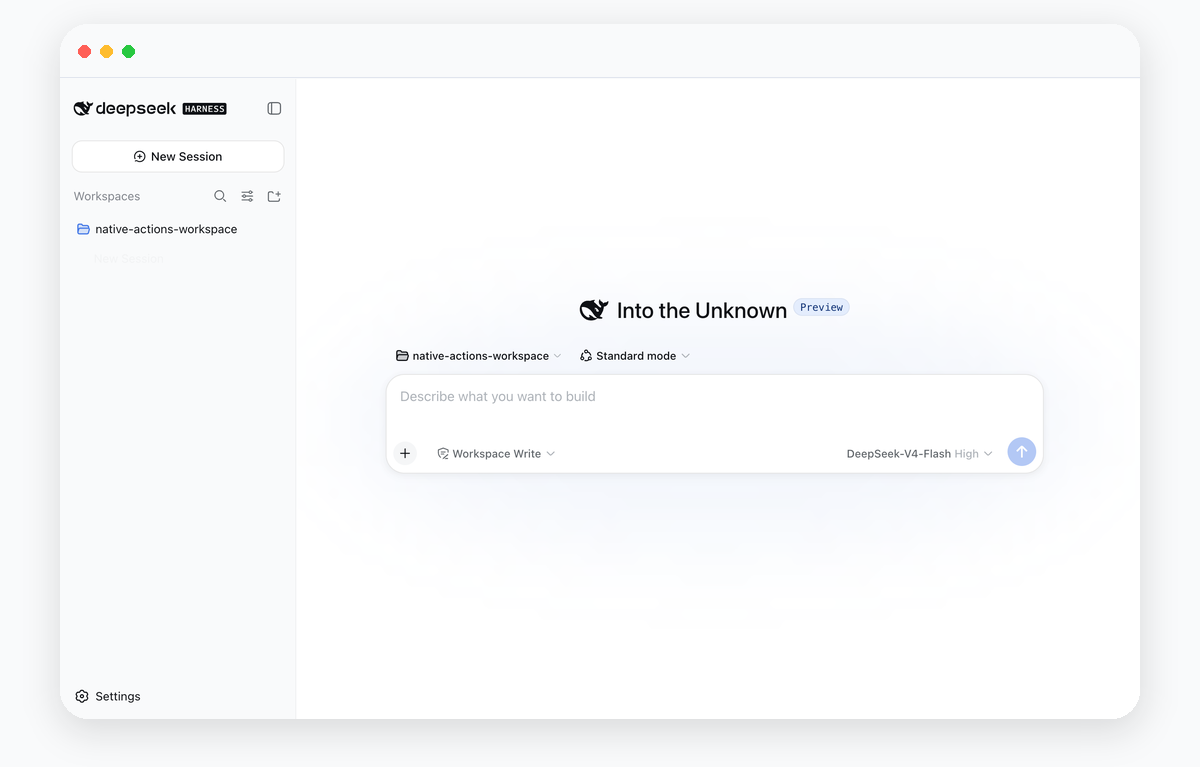
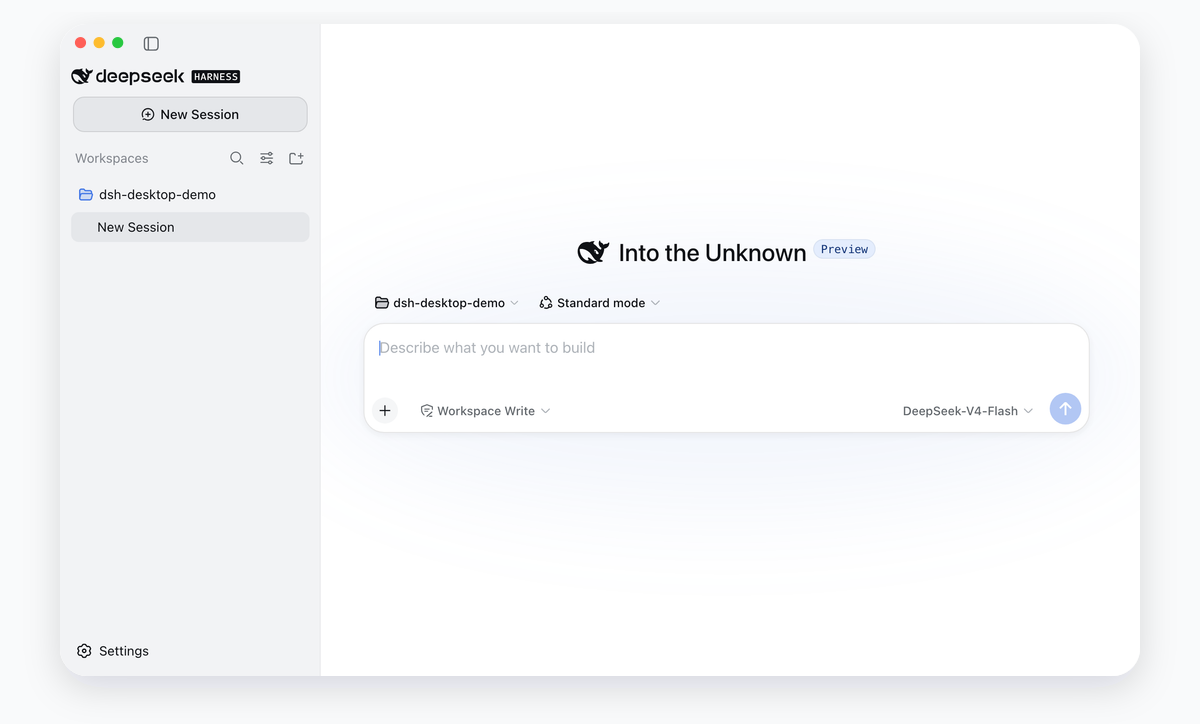
docs(readme): refresh native desktop presentation

diff --git a/apps/desktop/src/main.ts b/apps/desktop/src/main.ts
@@ -928,7 +928,7 @@ async function reachLiveComposer(
   supervisor: DshSupervisor,
   window: BrowserWindow,
 ): Promise<{ sessionId: string; workspaceId: string }> {
-  const workspaceDir = join(app.getPath('userData'), 'acceptance-workspace')
+  const workspaceDir = join(app.getPath('userData'), 'dsh-desktop-demo')
   await mkdir(workspaceDir, { recursive: true })
   const created = await desktopRpc(supervisor, 'accept-workspace', 'workspace.create', { path: workspaceDir })
   const workspace = created['workspace'] as Record<string, unknown>
@@ -1747,6 +1747,9 @@ async function recordNativeWindow(
     await recorder.capture('drag-region-attempt')
 
     const { sessionId, workspaceId } = await reachLiveComposer(currentSupervisor(lifecycle), window)
+    nativeTheme.themeSource = 'light'
+    await new Promise(resolveWait => setTimeout(resolveWait, 250))
+    await recorder.capture('readme-product')
     const keyboard = await typeIntoComposer(window)
     const controlBounds = window.getBounds()
     await recorder.capture('keyboard-typed')
@@ -1847,7 +1850,7 @@ async function recordNativeWindow(
     console.log('SMOKE_OK approval-session')
     // A stale notes.txt from an earlier run must not satisfy the assertion:
     // remove it so the escalated write is the only source of the file.
-    const approvalFile = join(app.getPath('userData'), 'acceptance-workspace', APPROVAL_FILE)
+    const approvalFile = join(app.getPath('userData'), 'dsh-desktop-demo', APPROVAL_FILE)
     rmSync(approvalFile, { force: true })
     await submitRecordedPrompt(window, APPROVAL_PROMPT, true)
     await waitForRenderer(window, "document.querySelector('[data-approval-key]') !== null", 120_000)

diff --git a/apps/desktop/tests/packaged-smoke.e2e.ts b/apps/desktop/tests/packaged-smoke.e2e.ts
@@ -583,9 +583,9 @@ describe('packaged desktop application', () => {
       expect(state.questionSessionId).not.toBe('')
       expect(state.approvalSessionId).not.toBe('')
       expect(state.questionSessionId).not.toBe(state.approvalSessionId)
-      // The escalated write lands in the acceptance workspace under the
+      // The escalated write lands in the recording workspace under the
       // application's own user-data directory, not the harness home.
-      expect(state.approvalFile.endsWith(join('acceptance-workspace', 'notes.txt'))).toBe(true)
+      expect(state.approvalFile.endsWith(join('dsh-desktop-demo', 'notes.txt'))).toBe(true)
       expect(captured).not.toContain('UnhandledPromiseRejectionWarning')
       expect(captured).not.toContain('Object has been destroyed')
       expect(state.framesDir).toBe(framesDir)
@@ -601,7 +601,7 @@ describe('packaged desktop application', () => {
       expect(state.window.dragAttemptBounds).toEqual(state.window.initialBounds)
       expect(state.window.controlBounds).toEqual(state.window.initialBounds)
       for (const label of [
-        'launch', 'native-drag-surface', 'inactive', 'active', 'drag-region-attempt', 'keyboard-typed',
+        'launch', 'native-drag-surface', 'inactive', 'active', 'drag-region-attempt', 'readme-product', 'keyboard-typed',
         'restored', 'fullscreen', 'sidebar-collapsed', 'fullscreen-collapsed', 'sidebar-revealed',
         'appearance-dark', 'appearance-light', 'tracer-turn', 'tracer-settled',
         'session-sidebar-collapsed', 'session-fullscreen-collapsed',

diff --git a/README.md b/README.md
@@ -9,10 +9,10 @@ English | [中文](README.zh.md)
 `deepseek-harness-desktop` packages [DeepSeek Harness](https://github.com/deepseek-ai/deepseek-harness) as the native Electron application **DSH Desktop**. The desktop shell is the product-specific layer; the bundled `dsh` runtime keeps its plugin system, sessions, tools, PTYs, persistence, CLI identity, and documentation vocabulary.
 
 <p align="center">
-  <img src="./assets/readme/product-window.png" width="100%" alt="Real installed DSH Desktop window with a native-selected workspace and the assembled agent composer">
+  <img src="./assets/readme/product-window.png" width="100%" alt="Installed DSH Desktop window with compact macOS chrome, a glass sidebar, a selected workspace, and the assembled agent composer">
 </p>
 
-<p align="center"><sub>Real renderer capture from the installed macOS bundle's packaged native-action acceptance journey.</sub></p>
+<p align="center"><sub>Renderer capture from the installed macOS bundle, framed against a neutral backing to show the compact chrome and default glass sidebar layout.</sub></p>
 
 ## Desktop shell, full harness
 
@@ -23,7 +23,7 @@ English | [中文](README.zh.md)
       <td align="center" width="50%"><img src="./assets/readme/icons/private-carrier.png" width="112" alt="Private carrier illustration"><br><strong>Private desktop carrier</strong><br>The sandboxed renderer crosses a context-isolated preload bridge and validated IPC. The desktop profile opens no browser-facing HTTP listener.</td>
     </tr>
     <tr>
-      <td align="center" width="50%"><img src="./assets/readme/icons/native-workspace.png" width="112" alt="Native workspace illustration"><br><strong>Native workspace actions</strong><br>Electron main owns directory selection, path opening, macOS window integration, recovery, and process-tree cleanup.</td>
+      <td align="center" width="50%"><img src="./assets/readme/icons/native-workspace.png" width="112" alt="Native workspace illustration"><br><strong>Native macOS shell</strong><br>Electron main owns directory selection, path opening, compact window chrome and native dragging, recovery, and process-tree cleanup; the sidebar uses the saved glass preference.</td>
       <td align="center" width="50%"><img src="./assets/readme/icons/shared-state.png" width="112" alt="Shared state illustration"><br><strong>Shared DSH state</strong><br>DSH Desktop and the CLI use the same <code>~/.dsh</code> home, so sessions, profiles, and configuration remain available to both.</td>
     </tr>
   </tbody>

diff --git a/README.zh.md b/README.zh.md
@@ -9,10 +9,10 @@
 `deepseek-harness-desktop` 将 [DeepSeek Harness](https://github.com/deepseek-ai/deepseek-harness) 打包为原生 Electron 应用 **DSH Desktop**。桌面外壳是本项目专属的产品层；内置 `dsh` 运行时继续保留插件系统、Session、工具、PTY、持久化、CLI 身份与文档术语。
 
 <p align="center">
-  <img src="./assets/readme/product-window.png" width="100%" alt="真实安装态 DSH Desktop 窗口，显示通过原生操作选取的 Workspace 与装配完成的 agent 输入框">
+  <img src="./assets/readme/product-window.png" width="100%" alt="安装态 DSH Desktop 窗口，显示紧凑 macOS 窗口框架、玻璃侧栏、已选 Workspace 与装配完成的 agent 输入框">
 </p>
 
-<p align="center"><sub>来自已安装 macOS 应用包原生操作验收流程的真实 renderer 捕获。</sub></p>
+<p align="center"><sub>来自已安装 macOS 应用包的 renderer 捕获，以中性背景呈现紧凑窗口框架与默认玻璃侧栏布局。</sub></p>
 
 ## 桌面外壳，完整 harness
 
@@ -23,7 +23,7 @@
       <td align="center" width="50%"><img src="./assets/readme/icons/private-carrier.png" width="112" alt="私有载体插画"><br><strong>私有桌面载体</strong><br>沙箱化 renderer 通过上下文隔离的 preload 桥和经过校验的 IPC 访问 DSH；desktop profile 不会打开面向浏览器的 HTTP 监听。</td>
     </tr>
     <tr>
-      <td align="center" width="50%"><img src="./assets/readme/icons/native-workspace.png" width="112" alt="原生 Workspace 插画"><br><strong>原生 Workspace 操作</strong><br>Electron main 持有目录选择、路径打开、macOS 窗口集成、恢复与进程树清理。</td>
+      <td align="center" width="50%"><img src="./assets/readme/icons/native-workspace.png" width="112" alt="原生 Workspace 插画"><br><strong>原生 macOS 外壳</strong><br>Electron main 持有目录选择、路径打开、紧凑窗口框架与原生拖动、恢复和进程树清理；侧栏使用已保存的玻璃侧栏偏好。</td>
       <td align="center" width="50%"><img src="./assets/readme/icons/shared-state.png" width="112" alt="共享状态插画"><br><strong>共享 DSH 状态</strong><br>DSH Desktop 与 CLI 使用同一个 <code>~/.dsh</code> 主目录，因此两者都能访问 Session、profile 与配置。</td>
     </tr>
   </tbody>
